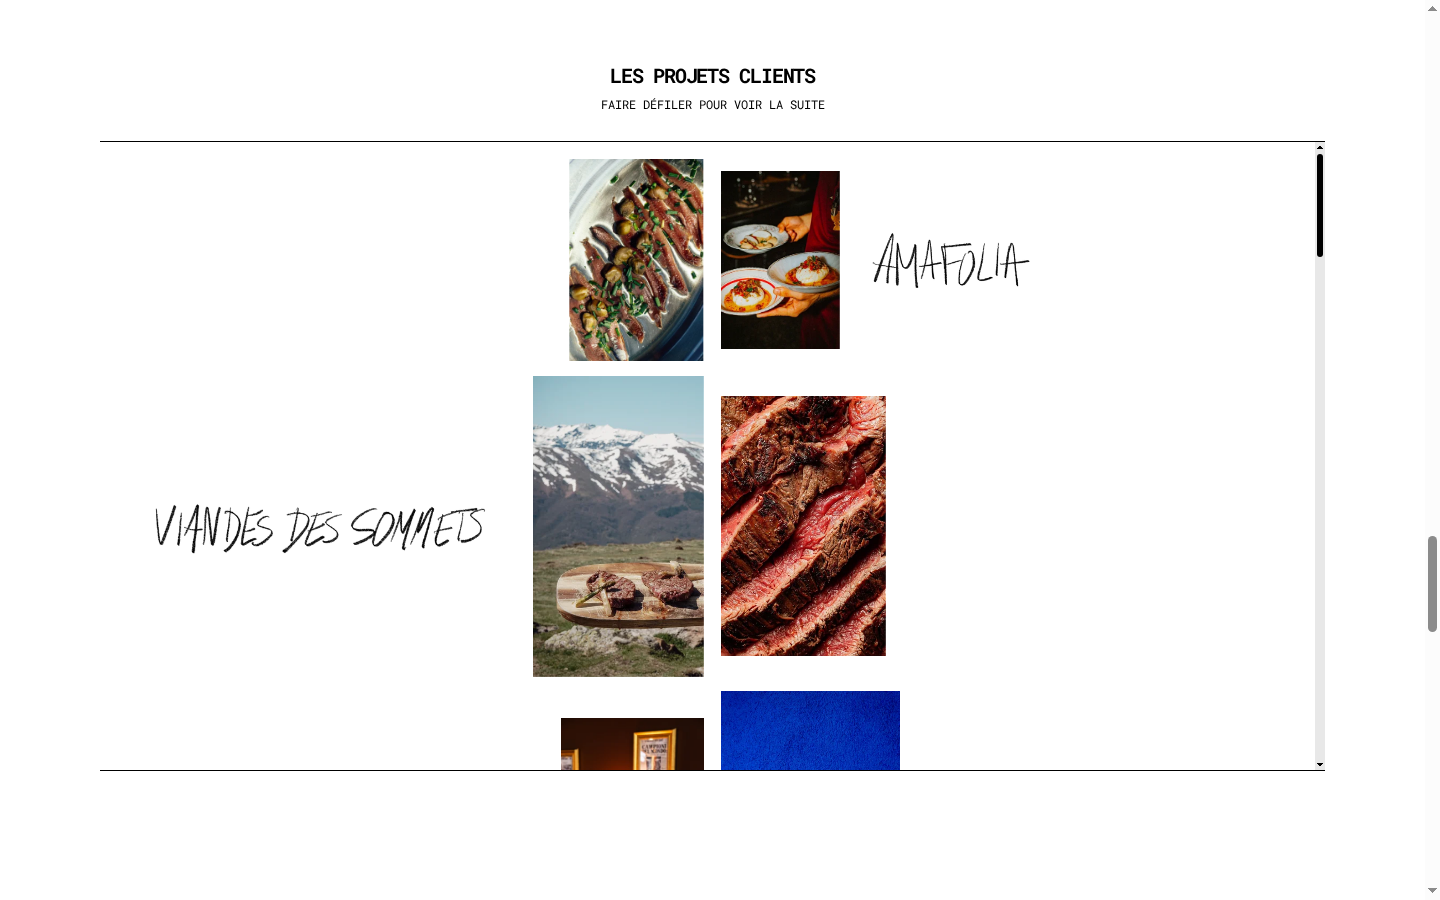
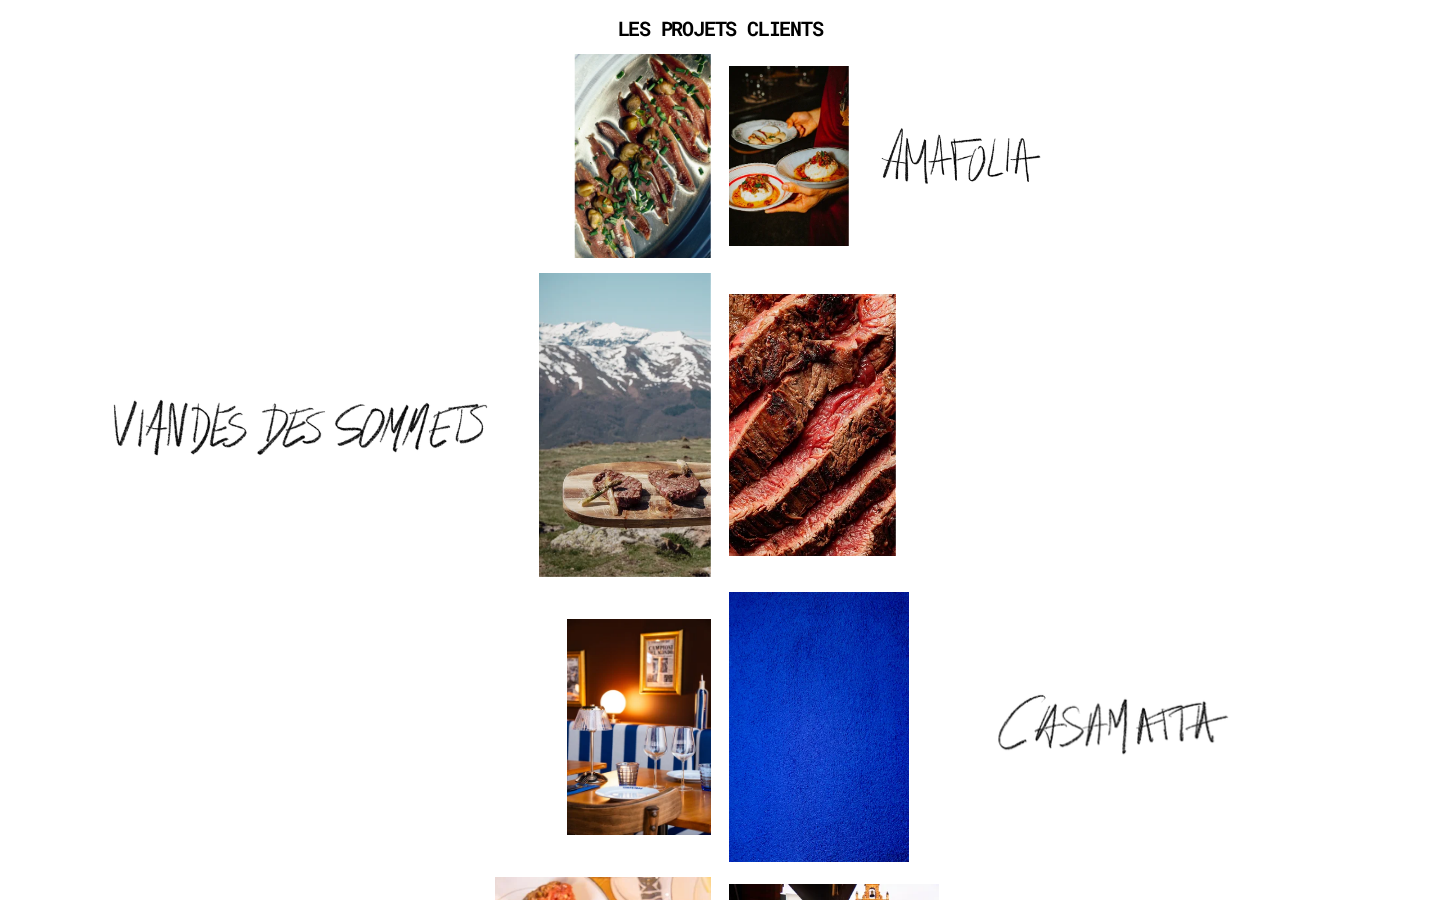
fix(vitrine): garder le titre des projets clients en haut de la page

diff --git a/e2e/projects.spec.ts b/e2e/projects.spec.ts
@@ -1,7 +1,7 @@
 import { expect, test } from '@playwright/test';
 
 for (const javaScriptEnabled of [false, true]) {
-  test(`la liste défile sous son titre, JavaScript ${javaScriptEnabled}`, async ({
+  test(`le titre reste en haut jusqu’au dernier projet, JavaScript ${javaScriptEnabled}`, async ({
     browser,
   }) => {
     const context = await browser.newContext({
@@ -16,30 +16,34 @@ for (const javaScriptEnabled of [false, true]) {
         const page = await context.newPage();
         await page.setViewportSize(viewport);
         await page.goto('/#projets');
-        const title = page.getByRole('heading', {
+        const section = page.getByRole('region', {
           name: 'Les projets clients',
         });
-        const list = page.getByRole('group', {
-          name: 'Liste des projets clients',
+        const title = section.getByRole('heading', {
+          name: 'Les projets clients',
         });
-        const lastProject = list.getByRole('figure', {
+        const lastProject = section.getByRole('figure', {
           name: 'Fitness by Leslie',
         });
+        const header = section.locator('header');
         await expect(title).toBeInViewport({ ratio: 1 });
         await expect(lastProject).not.toBeInViewport();
+        const mainWidth = await page
+          .getByRole('main')
+          .evaluate((main) => main.clientWidth);
+        expect((await header.boundingBox())?.width).toBe(mainWidth);
 
-        await list.hover();
-        const titlePosition = await title.boundingBox();
+        await page.mouse.move(viewport.width / 2, viewport.height / 2);
         await page.mouse.wheel(0, 250);
-        await expect
-          .poll(() => list.evaluate((el) => el.scrollTop))
-          .toBeGreaterThan(0);
-        expect(await title.boundingBox()).toEqual(titlePosition);
+        await expect.poll(async () => (await header.boundingBox())?.y).toBe(0);
 
-        await list.press('End');
+        await lastProject.scrollIntoViewIfNeeded();
         await expect(lastProject).toBeInViewport({ ratio: 1 });
         await expect(title).toBeInViewport({ ratio: 1 });
-        expect(await title.boundingBox()).toEqual(titlePosition);
+        expect((await header.boundingBox())?.y).toBe(0);
+
+        await page.mouse.wheel(0, viewport.height);
+        await expect(title).not.toBeInViewport();
         await page.close();
       }
     } finally {

diff --git a/apps/web/app/components/vitrine/vitrine.css b/apps/web/app/components/vitrine/vitrine.css
@@ -426,29 +426,21 @@ body:has(.vitrine) {
   top: -1px;
 }
 .vitrine-projects {
-  margin: 32cqw 7% 0;
+  margin-block-start: clamp(60px, 6cqw, 112px);
   scroll-margin-top: 32px;
 }
 .vitrine-projects-header {
+  position: sticky;
+  inset-block-start: 0;
+  z-index: 1;
+  padding-block: 12px;
+  background: var(--vitrine-paper);
   text-align: center;
-}
-.vitrine-projects-header p {
-  margin-block-start: 8px;
-  font-size: var(--vitrine-small);
-  font-weight: 400;
-  letter-spacing: 0;
 }
 .vitrine-projects-collage {
   display: grid;
   gap: 2cqw;
-  max-block-size: 70svh;
-  margin-block-start: clamp(16px, 2cqw, 32px);
-  padding: clamp(12px, 1.25cqw, 24px) 8px;
-  border-block: 1px solid var(--vitrine-ink);
-  overflow-y: auto;
-  scrollbar-color: var(--vitrine-ink) #e8e8e8;
-  scrollbar-width: thin;
-  scrollbar-gutter: stable both-edges;
+  padding: clamp(12px, 1.25cqw, 24px) clamp(12px, 3cqw, 32px) 0;
 }
 .vitrine-project {
   display: grid;
@@ -489,6 +481,7 @@ body:has(.vitrine) {
   display: block;
   width: 100%;
   height: 100%;
+  scroll-margin-block-start: 64px;
 }
 .vitrine-project-mirror {
   transform: scaleX(-1);
@@ -692,9 +685,6 @@ body:has(.vitrine) {
   .vitrine-colophon > img {
     left: 20cqw;
     width: 12cqw;
-  }
-  .vitrine-projects {
-    margin: 60px 5% 0;
   }
   .vitrine-projects-collage {
     gap: 24px;

diff --git a/apps/web/app/components/vitrine/projects.tsx b/apps/web/app/components/vitrine/projects.tsx
@@ -74,15 +74,8 @@ export function Projects({ basePath }: { basePath: string }) {
     >
       <header className="vitrine-projects-header">
         <h2 id="projects-title">Les projets clients</h2>
-        <p id="projects-scroll-hint">Faire défiler pour voir la suite</p>
       </header>
-      <div
-        className="vitrine-projects-collage"
-        role="group"
-        aria-label="Liste des projets clients"
-        aria-describedby="projects-scroll-hint"
-        tabIndex={0}
-      >
+      <div className="vitrine-projects-collage">
         {projects.map(renderProject)}
         <figure
           className="vitrine-project vitrine-project-fitness-row"
